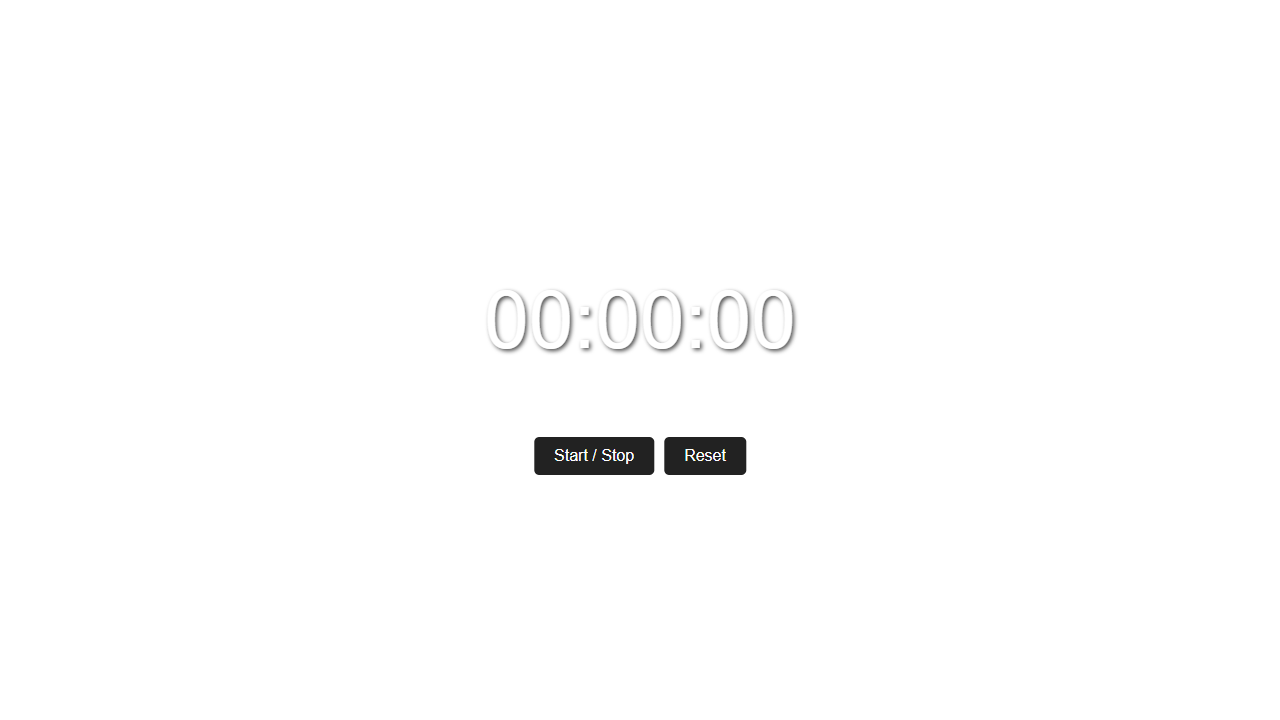
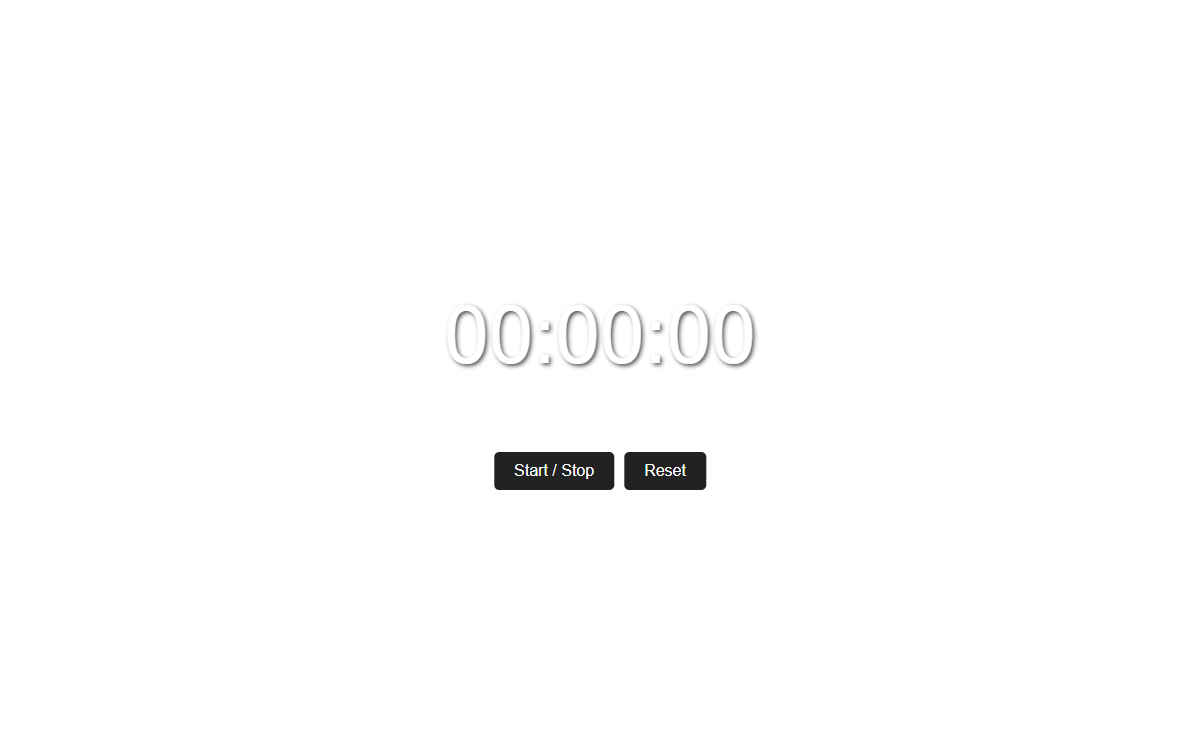
docs: restore original technical instructions and link verified interface capture

Changed region(s): [[0.4008, 0.5806, 0.6167, 0.6722], [0.37, 0.3972, 0.5242, 0.4889], [0.5242, 0.3972, 0.6475, 0.4889]]

diff --git a/README.md b/README.md
@@ -1,40 +1,39 @@
 # OBS Work Timer Overlay
 
-> **Dual-screen synchronized stream stopwatch and transparent OBS browser source.**
+Streaming deep work sessions benefits from clear visual accountability without distracting visual clutter. This lightweight HTML/CSS/JavaScript overlay displays a high-visibility work stopwatch with start, stop, reset, and progress tracking, designed for direct integration as an OBS browser source. Clean local execution with zero external asset dependencies. Fork the overlay to customize color palettes or add custom interval alerts for your stream setup.
 
-[![OBS Timer Preview](docs/media/obs-timer.png)](media/walkthrough.mp4)
+[![OBS Work Timer Overlay](media/overview.png)](media/walkthrough.mp4)
+*Click preview above to watch recorded interface demo.*
 
-*Click the preview card above to watch the stream overlay demo.*
 
----
+## Add it to an OBS scene
 
-## Why I Built This
+1. Clone or download this repo, install Node.js, then run `npm ci` and `npm start` from the project folder.
+2. In OBS, add a **Browser** source and set the URL to `http://localhost:3000`. Size the source to fit your scene.
+3. Use **Start / Stop** and **Reset** in the timer window or through **Interact** on the Browser source. All open views share the same timer state while the server runs.
 
-Streaming deep work or study sessions requires a timer that looks sharp on stream without cluttering your actual workspace. Window-capturing a desktop stopwatch app brings along unwanted window borders, menus, and DPI scaling quirks.
+To run the server without the Electron window, use `node server.js` after installing dependencies. The client has on-screen controls. The Electron build registers keyboard shortcuts, but the checked-in build does not wire their events through to the timer controls.
 
-ObsWorkTimerOverlay splits the timer into two parts: an Electron controller window that stays on your secondary monitor, and a pristine, transparent HTML5 browser source that plugs directly into OBS Studio via WebSockets.
+The server has no user login and the timer resets when its process restarts. Use it on a trusted local computer or network.
 
-## Standout Features
+## Contributing
 
-- **Transparent Browser Source:** Beautiful radial progress ring and high-legibility typography designed for 1080p and 4K stream overlays.
-- **Zero-Latency WebSocket Sync:** Start, pause, reset, or adjust work/break rounds from the controller with sub-millisecond sync.
-- **Configurable Visual Themes:** Customize accent colors, stroke width, and round durations to match your stream branding.
+Questions and improvements are welcome in GitHub issues and pull requests.
 
-## Visuals
+## Interface preview
 
-- **OBS Browser Overlay:** `docs/media/obs-timer.png`
-- **Recorded Demo:** `media/walkthrough.mp4`
+![OBS work timer interface in its local preview state](docs/media/obs-timer.png)
 
-## Setup & OBS Integration
+The capture shows the static interface at zero time; it does not show a running server or synchronized timer.
 
-1. Start the local server:
-   ```bash
-   cd ObsWorkTimerOverlay
-   npm install
-   npm start
-   ```
-2. In OBS Studio, add a new **Browser Source**:
-   - **URL:** `http://localhost:3000/overlay.html`
-   - **Width:** 1920
-   - **Height:** 1080
-   - Check **Shutdown source when not visible**.
+## How it is wired
+
+```mermaid
+flowchart LR
+  Electron[Electron window] --> Page[index.html and client.js]
+  OBS[OBS Browser source] --> Page
+  Page <-->|Socket.IO| Server[Express server]
+  Server --> Timer[In-memory stopwatch state]
+```
+
+The OBS browser source and Electron window connect to the same local Express/Socket.IO process, so they can display one running timer. There is no persistent timer database.
